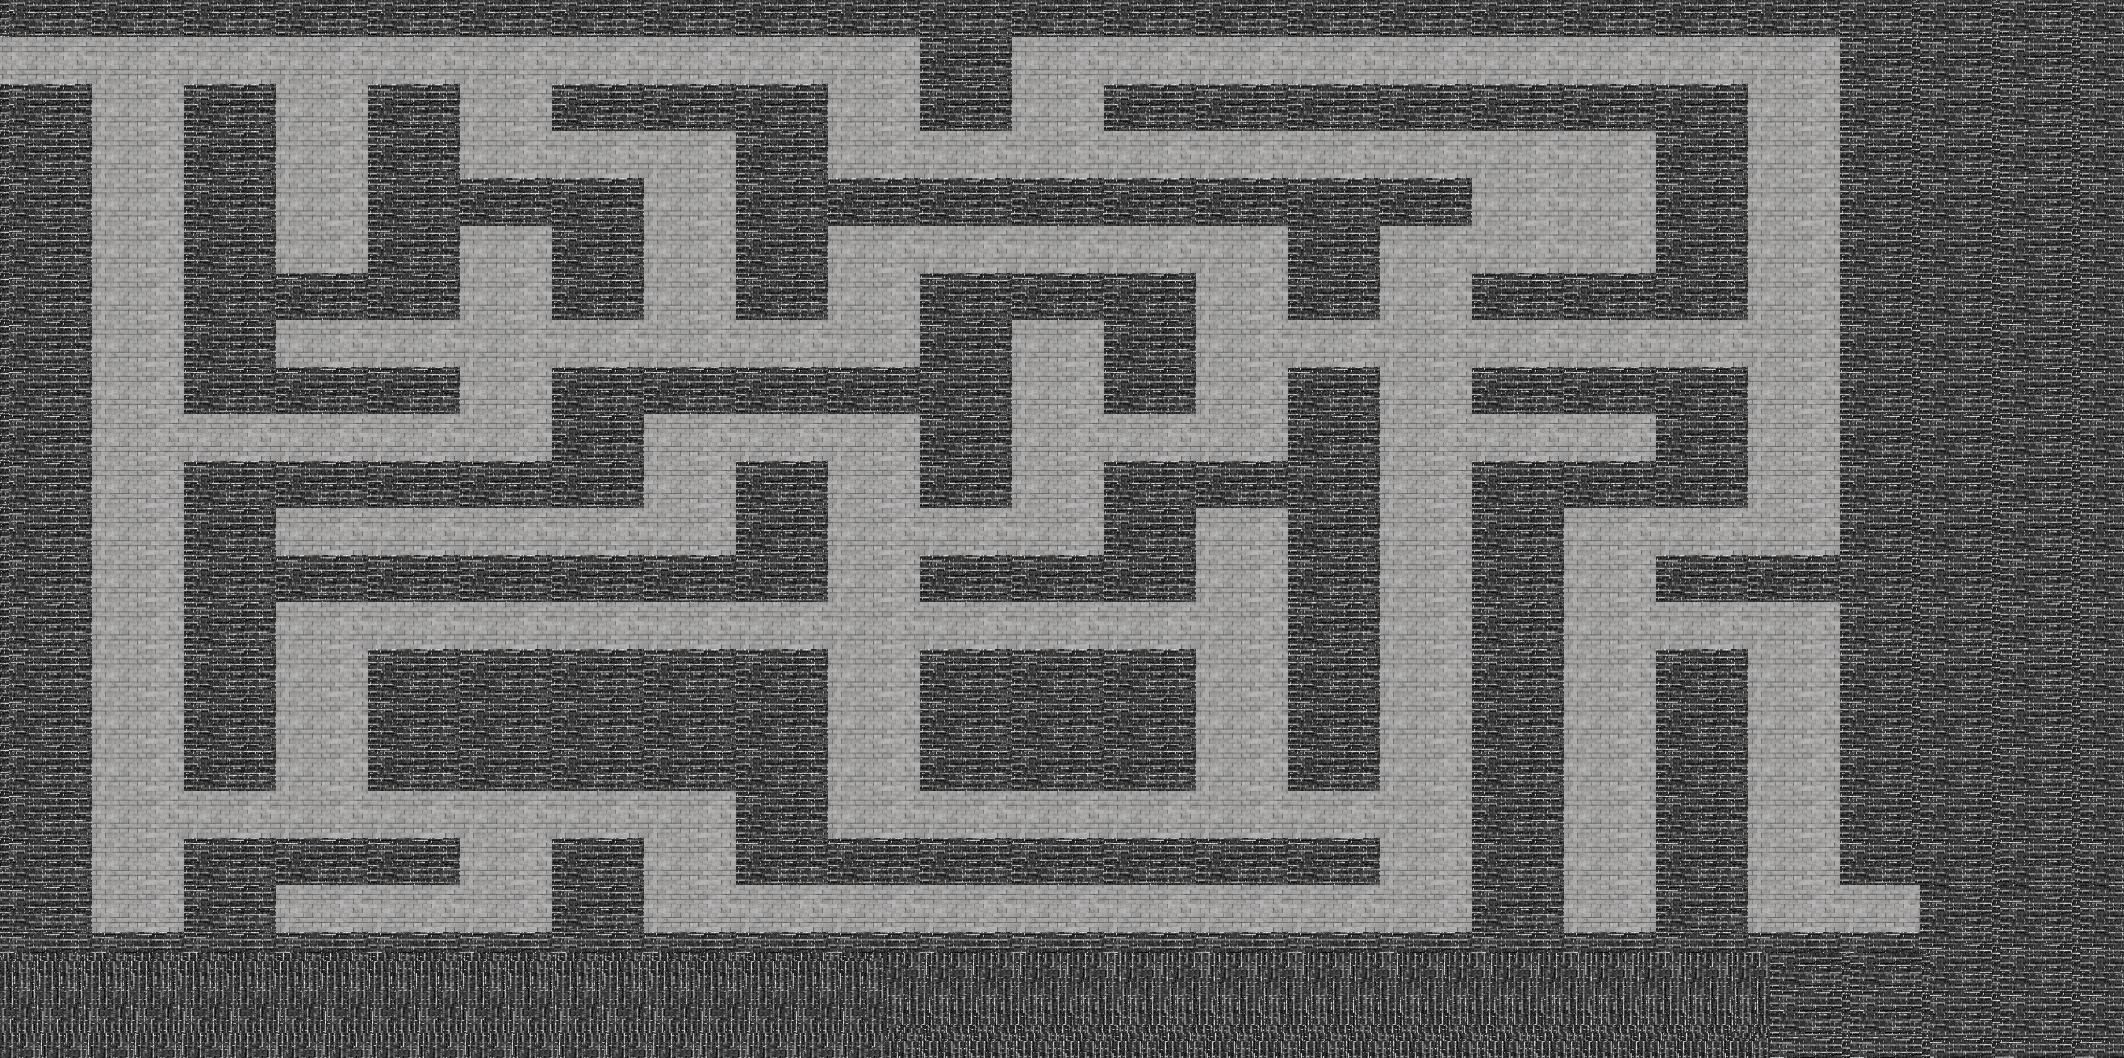
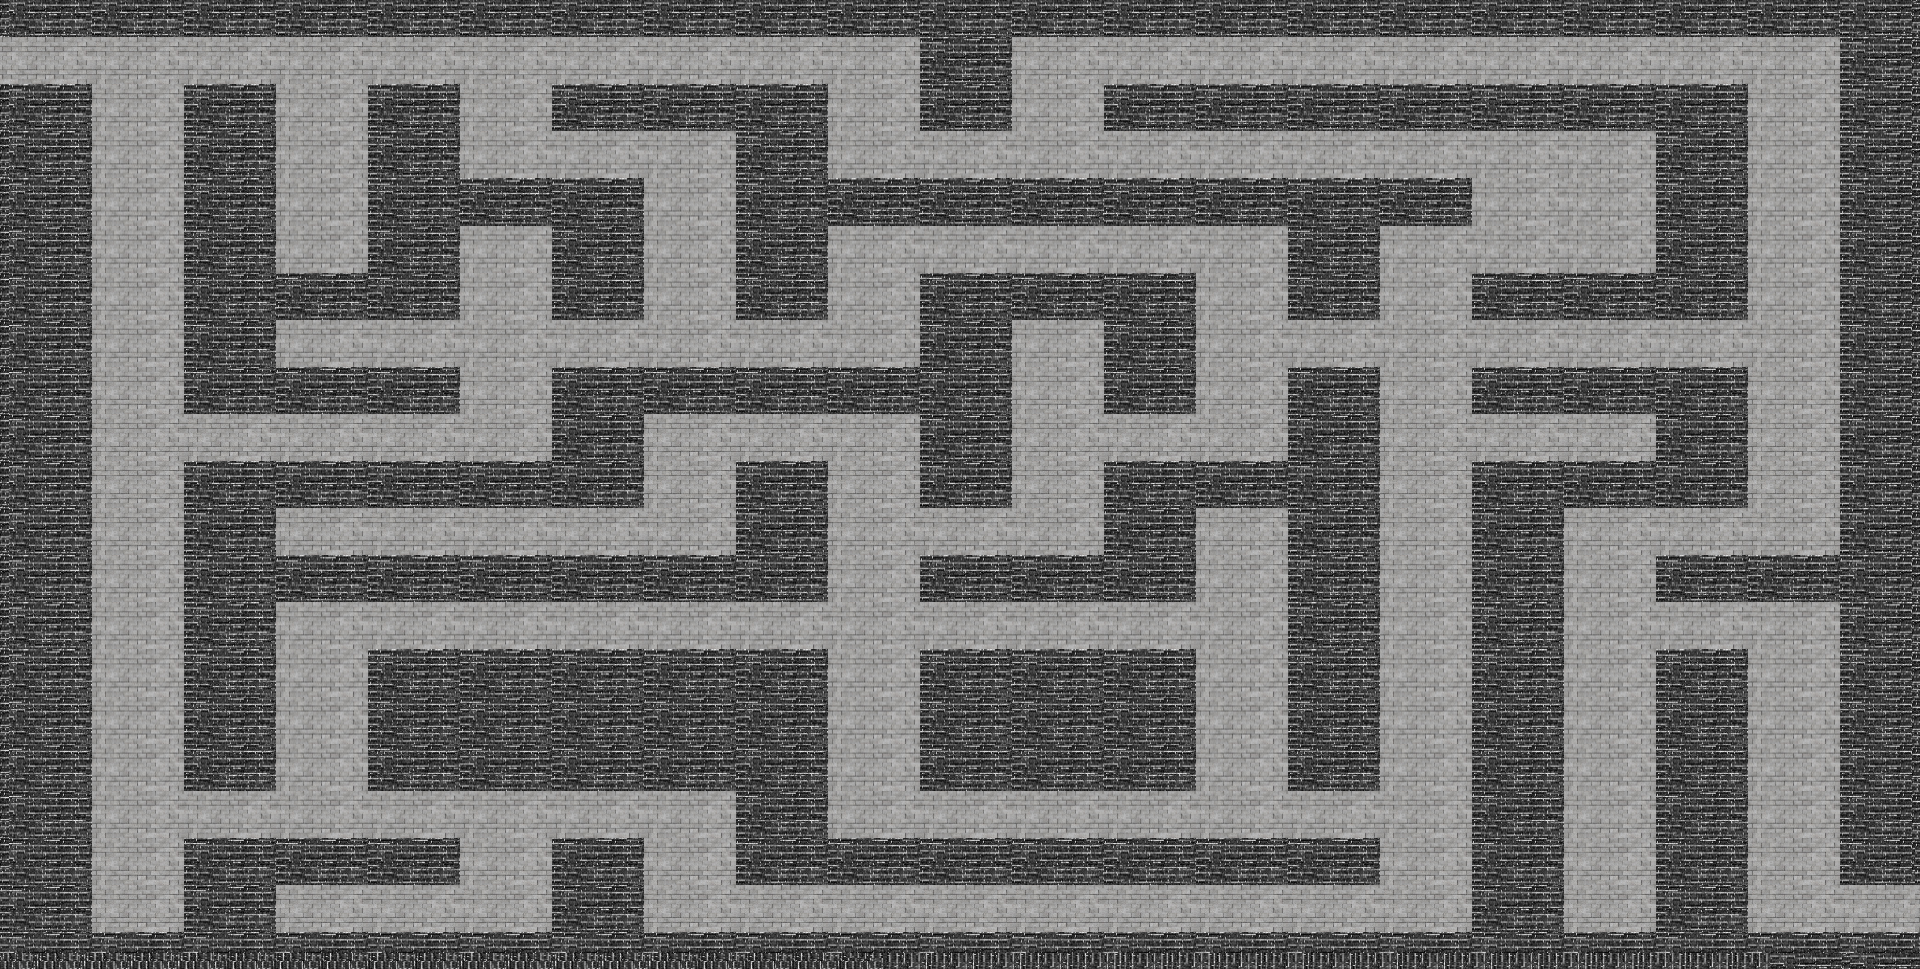
Add files via upload
Last one 1.0

diff --git a/Labirinth.io/character.js b/Labirinth.io/character.js
@@ -6,7 +6,7 @@ canvas.height = window.innerHeight -6;
 
 var c = canvas.getContext('2d');
 var a = canvas.getContext('2d');
-
+c.translate(-8,-8);
 var motion = 0;
 var speed = 5;
 var i = 0;
@@ -106,7 +106,7 @@ var lasty;
 var xPosition;
 var yPosition;
 var q = '#000000';
-var case1, case2, case3, case4, lastDirection = 0;
+var case1, case2, case3, case4, lastDirection = 0, x , y , ra;
 
 function torch1(){
   var torch1 = new Image();
@@ -394,14 +394,14 @@ document.onkeyup = stop;
 document.onkeydown = move;
 
     requestAnimationFrame(animate);
-    c.clearRect(0, 0,innerWidth, innerHeight);
+   c.clearRect(0, 0,innerWidth, innerHeight);
+
     c.beginPath();
+
     torch();
     directionAnimation();
-    c.strokeStyle = '#FFFFFF';
-    c.stroke;
-    c.arc(300, 300, 50, 0, Math.PI*2, false );
-    c.stroke;
+
+
 if(l){xPos-=speed}
 if(r){xPos+=speed}
 if(u){yPos+=speed}

diff --git a/Labirinth.io/Lab.html b/Labirinth.io/Lab.html
@@ -8,11 +8,15 @@
               //border: 1px solid black;
            }
           body {
-            background-image: url("hintergrund.png");
-              margin: 0;
-              width:1920px;
-              height: 963px;
-              background-size: cover;
+            max-width: 100%;
+            max-height: 100%;
+   overflow-x: hidden;
+   overflow-y: hidden;
+            background: url(hintergrund.png) no-repeat center center fixed;
+     -webkit-background-size: cover;
+     -moz-background-size: cover;
+     -o-background-size: cover;
+     background-size: cover;
               }
           }
       </style>
